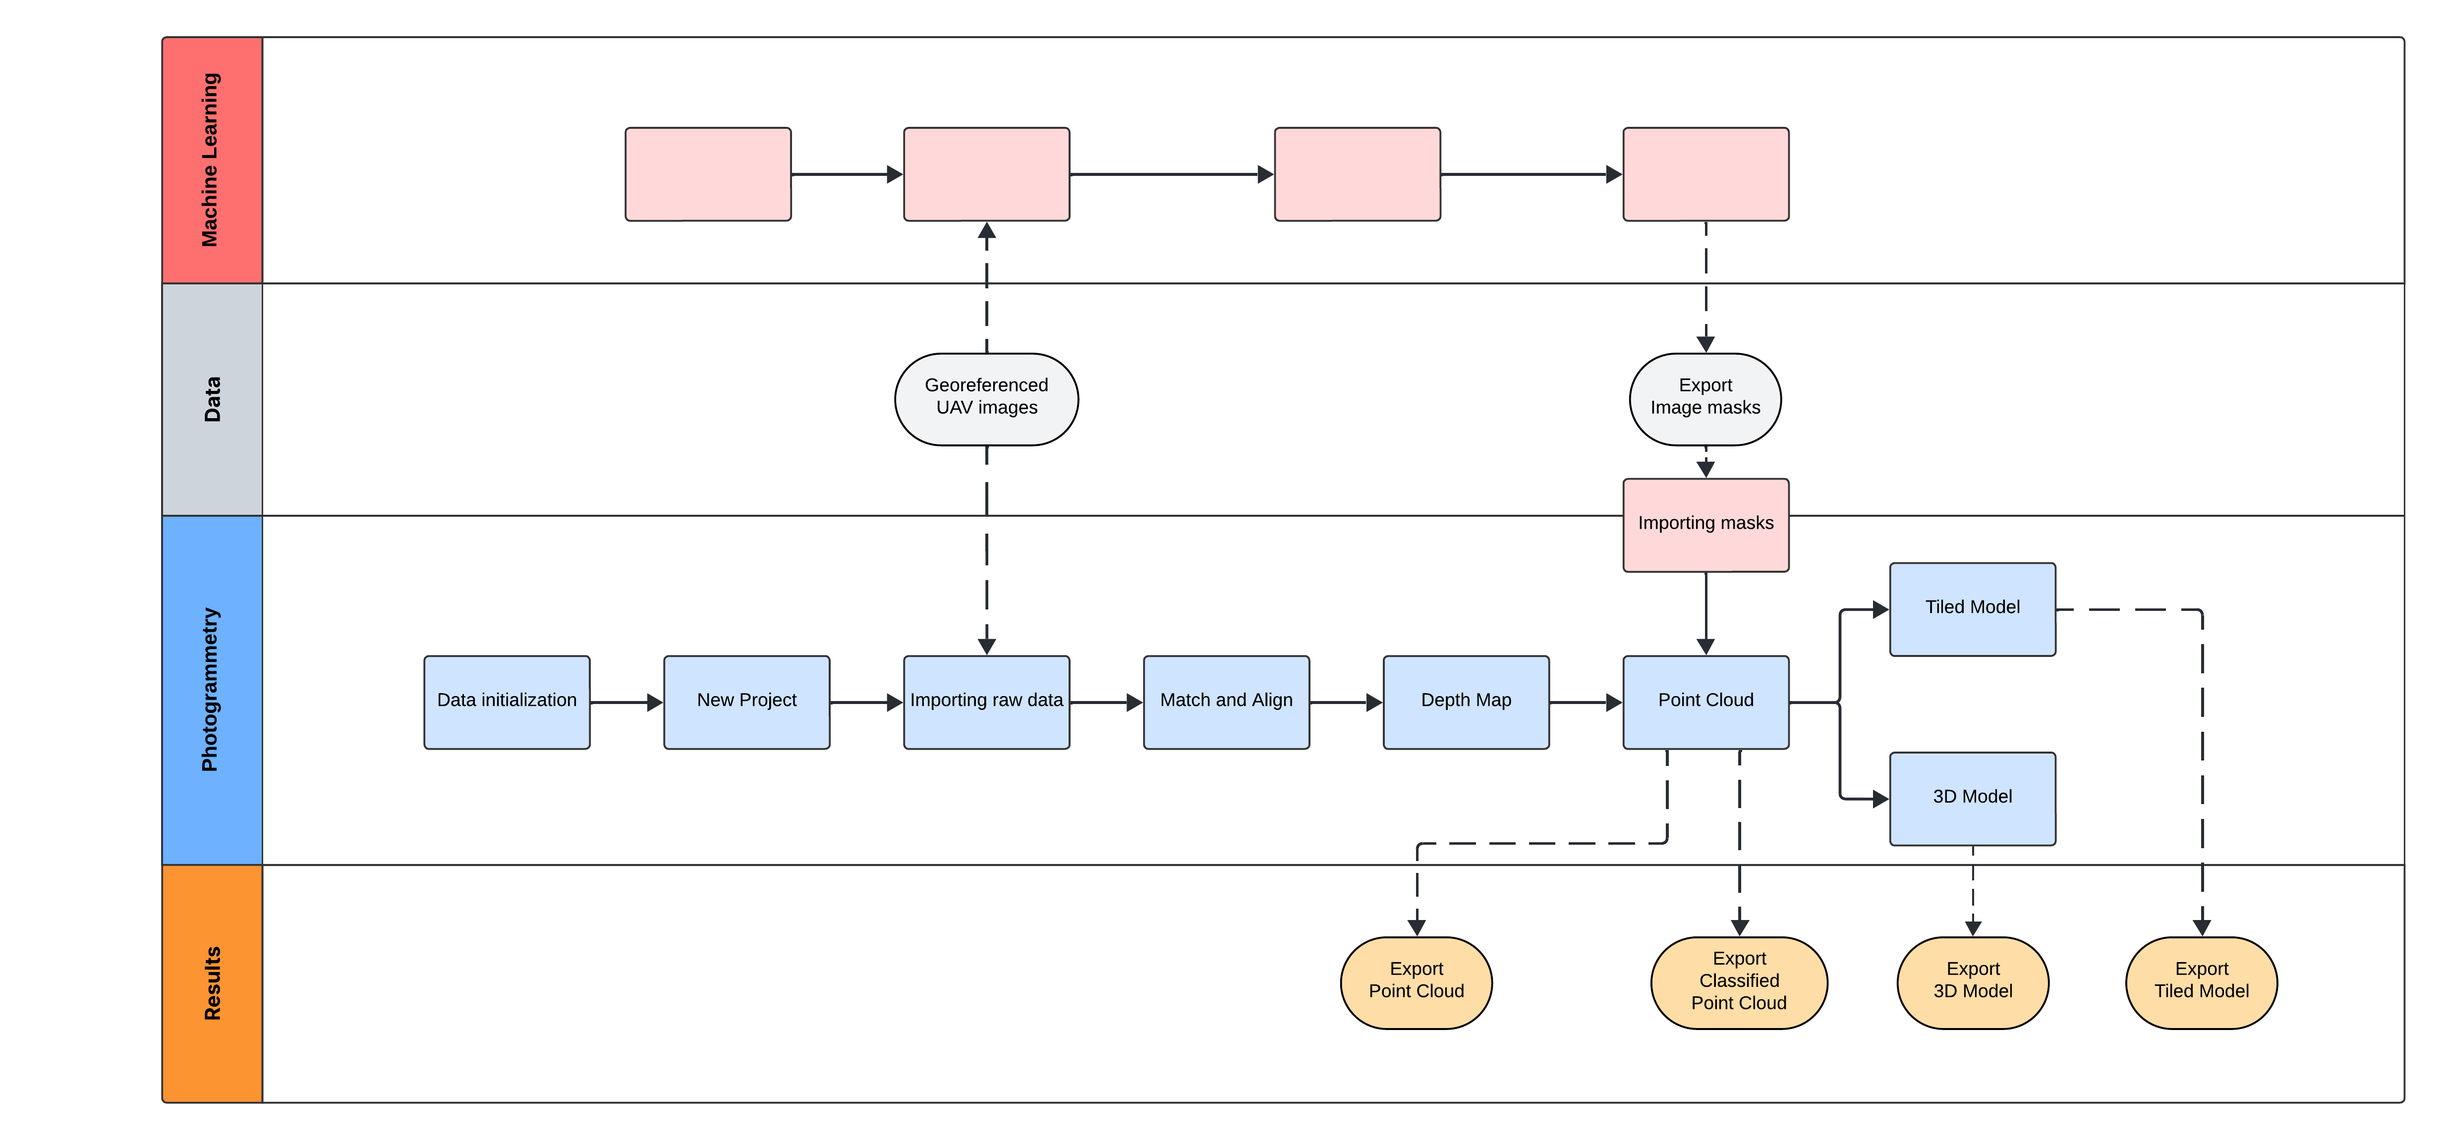
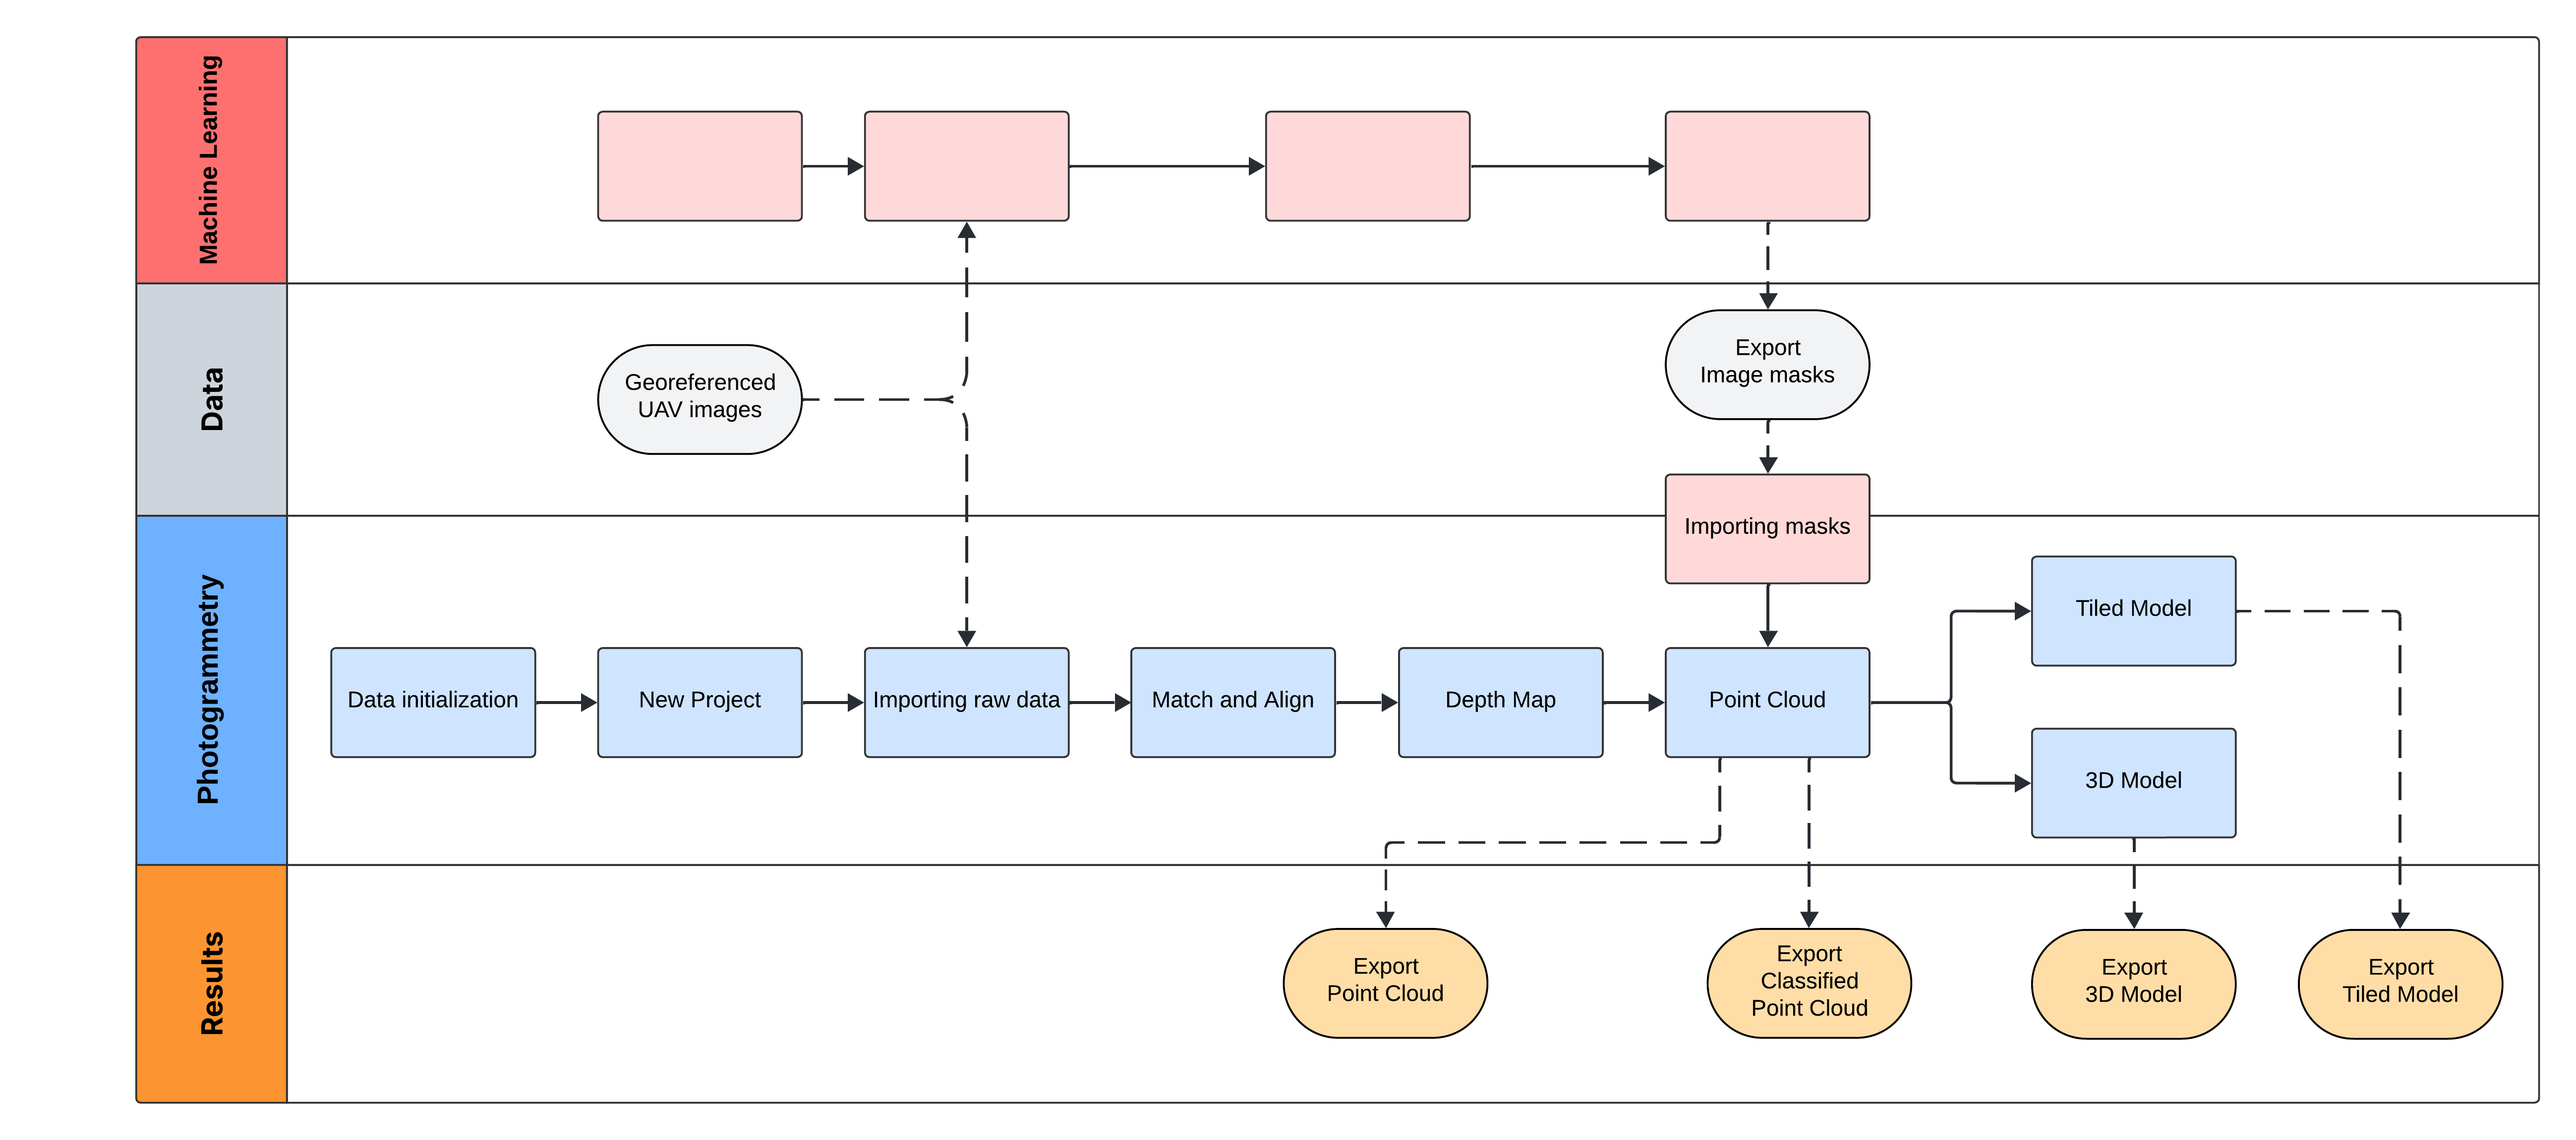
images refactor

diff --git a/README.md b/README.md
@@ -167,14 +167,16 @@ AirflowDemo/
 │   └── ...
 ├── metashape-module/ # Metashape python module for linux
 │   └── Metashape-2.2.0...whl
-├── src/ (TODO)
-│   ├── import_photos.py
-│   ├── align_cameras.py
-│   ├── build_point_cloud.py
-│   ├── build_mesh.py
-│   ├── build_texture.py
-│   ├── export_results.py
-│   └── metashape_utils.py
+├── src/
+│   └── tasks/
+│   │   ├── dag_configuration.py
+│   │   ├── new_project.py
+│   │   ├── import_photos.py
+│   │   ├── match_align_photos.py
+│   │   ├── build_depth_maps.py
+│   │   ├── build_point_cloud.py
+│   │   ├── build_model.py
+│   │   └── build_tiled.py
 └── dagrun.cfg  # define settings and parameters for DAGs input
 ```
 ### Run the Airflow DAG
@@ -190,7 +192,7 @@ AirflowDemo/
 The images demonstrate in different color the distinct dependencies and management of tasks for machine learning, photogrammetry, data import, and data export
 
 <center><img src="img/ML_Photo_from_point_cloud.png" width="600" align="center"></center>
+DAG based on point cloud
 
-<center><img src="img/from_point_cloud.png" width="600" align="center"></center>
-
-<center><img src="img/from_depth_maps.png" width="600" align="center"></center>
+<center><img src="img/ML_Photo_from_depth_map.png" width="600" align="center"></center>
+DAG based on depth map
